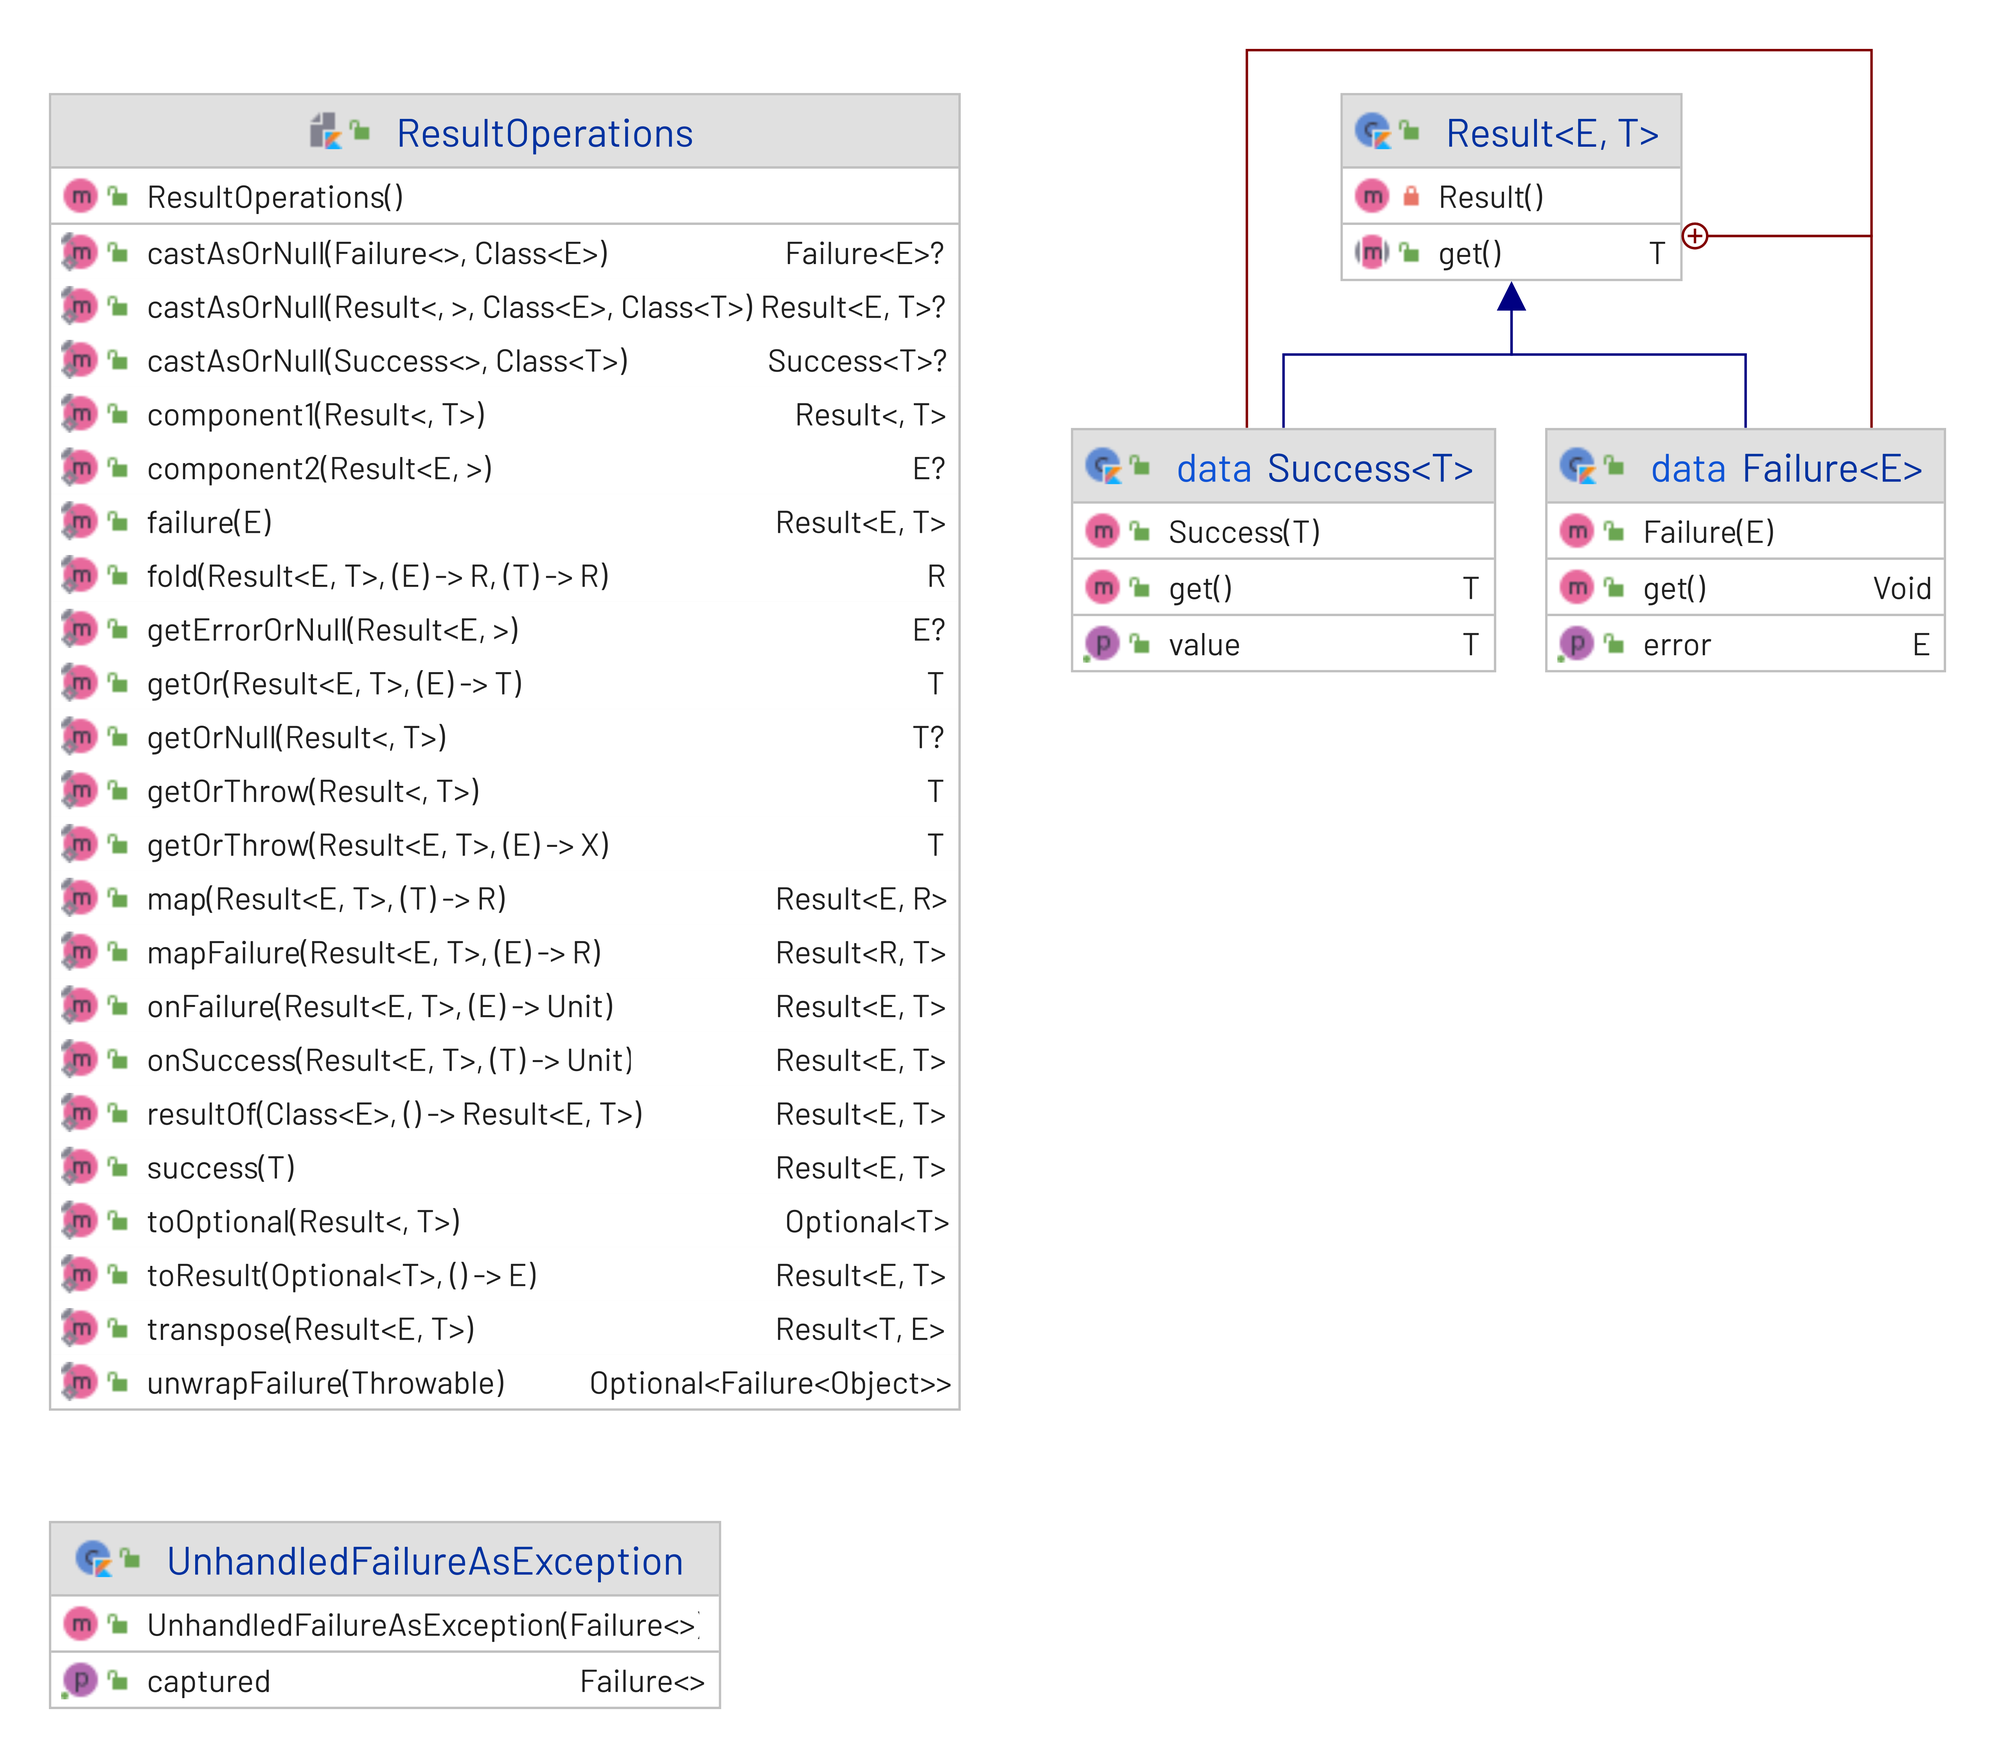
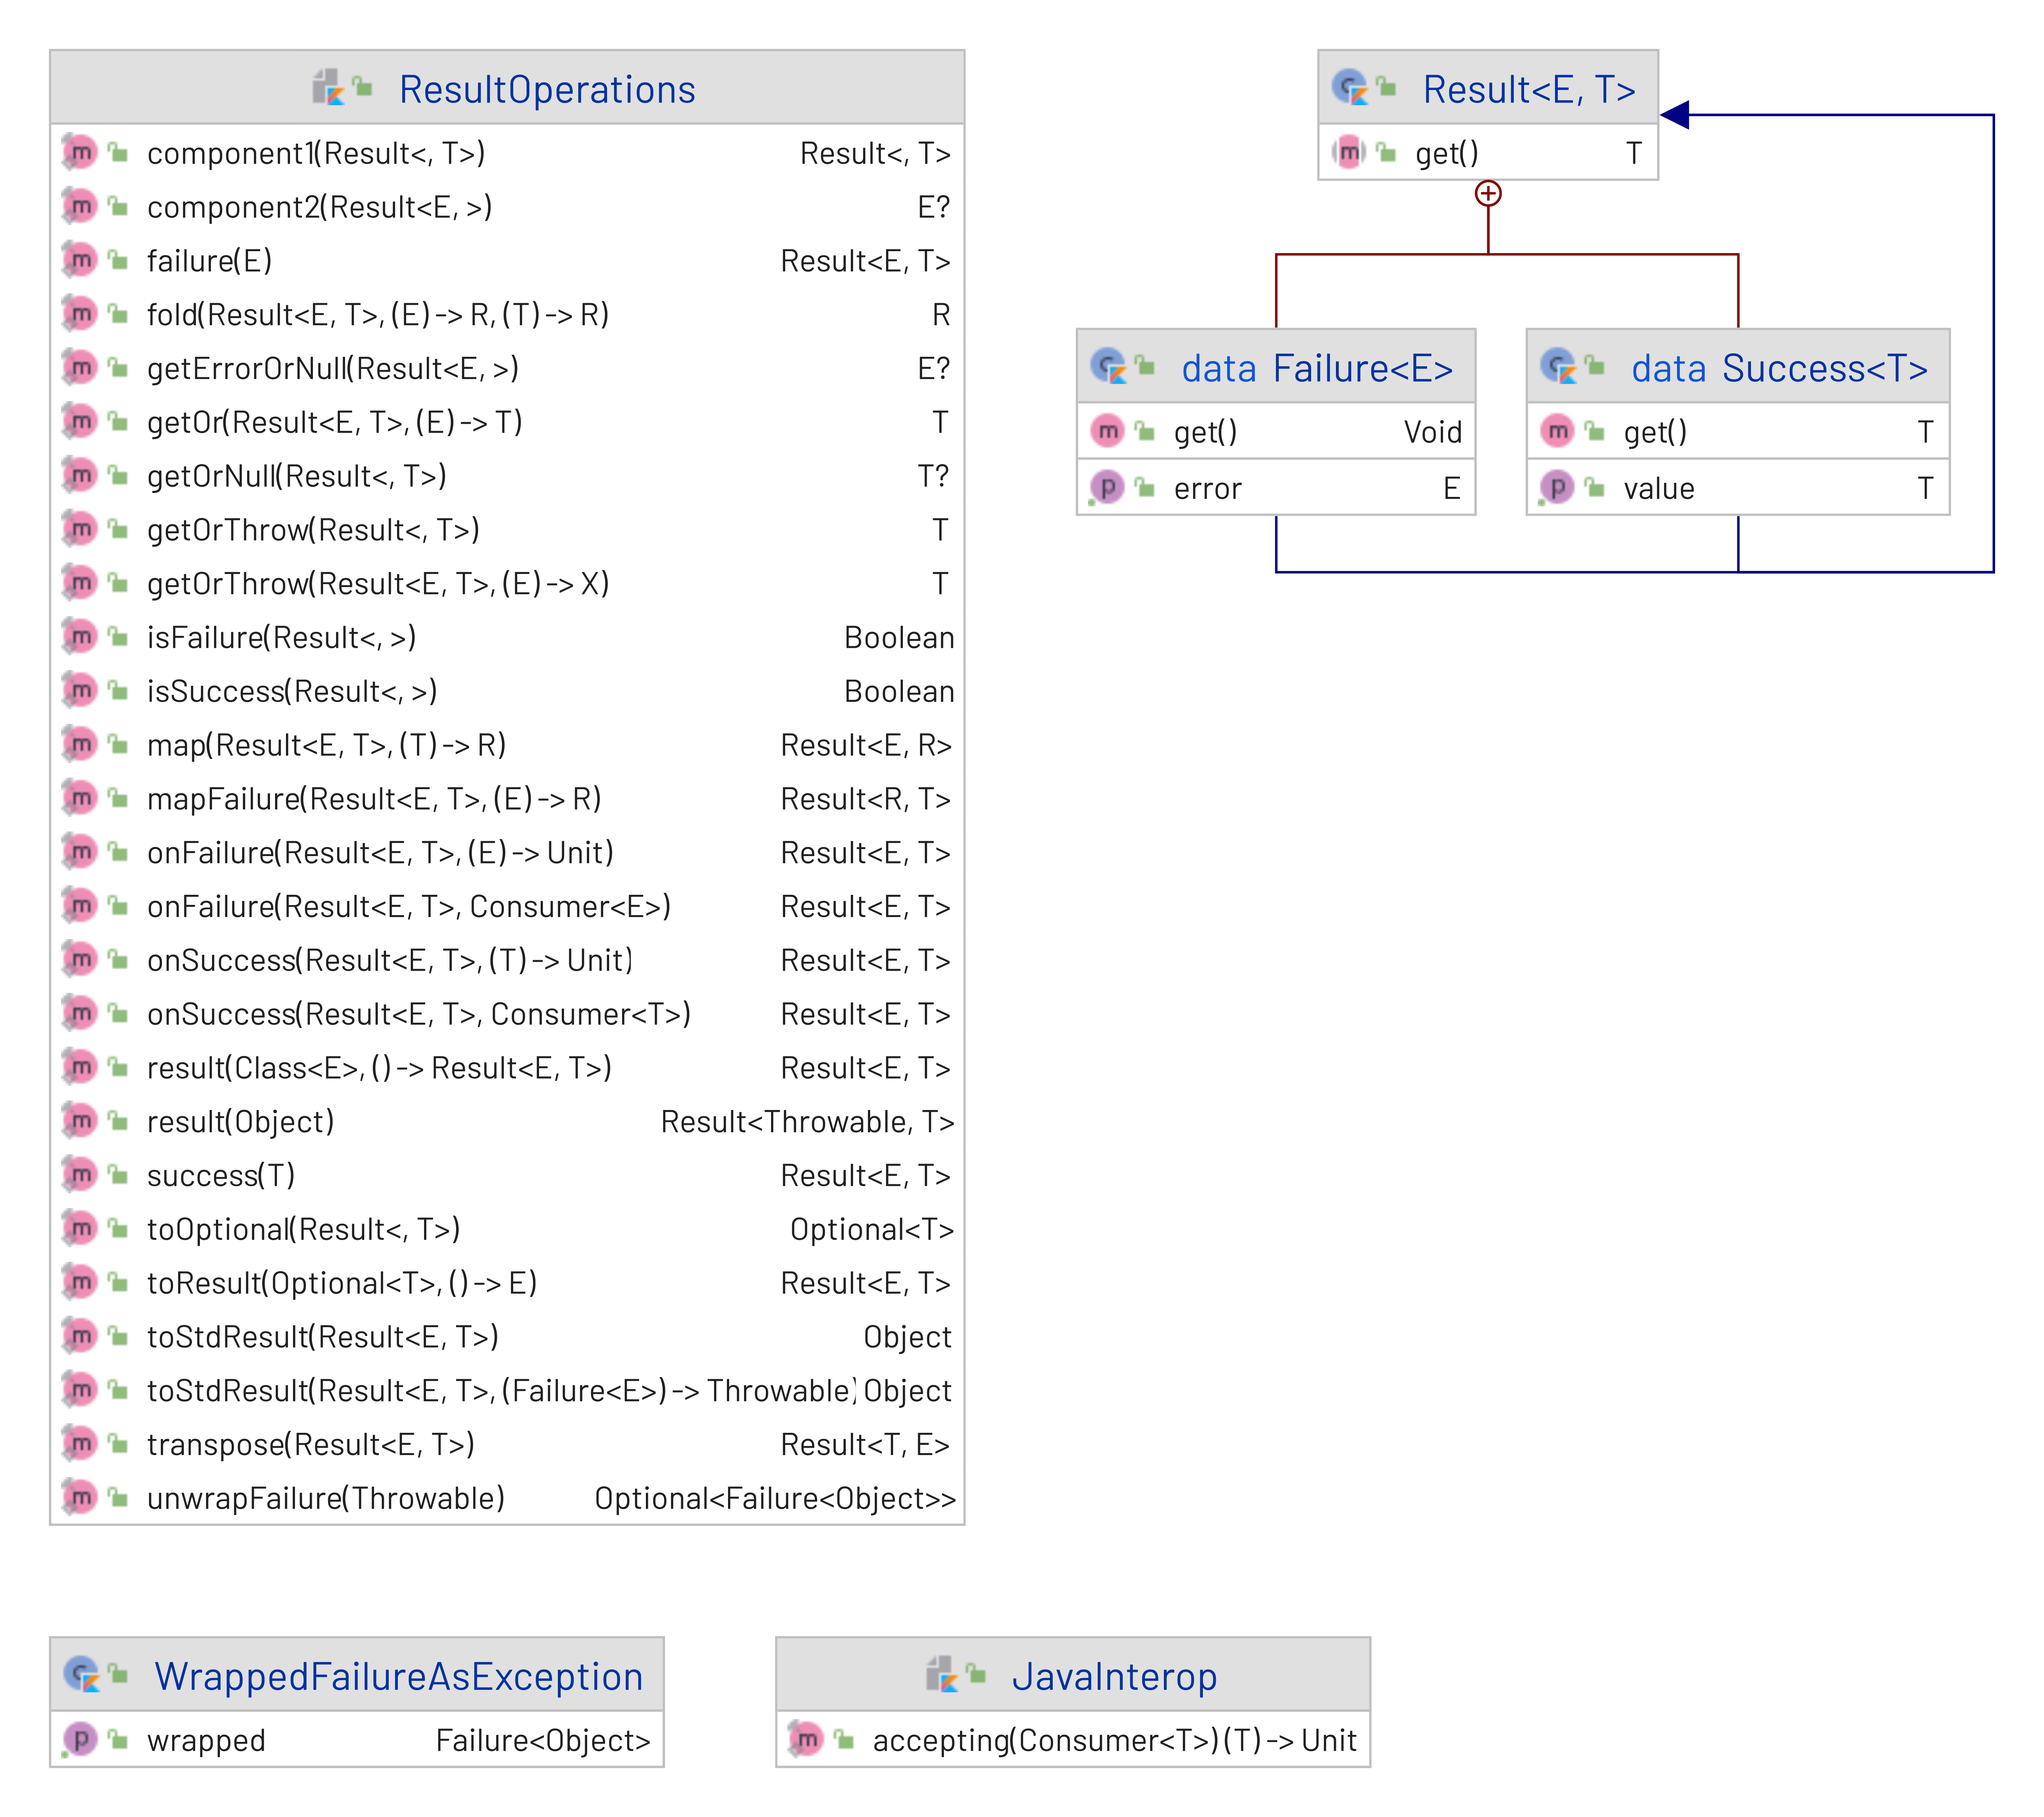
Updated docs removed some unnecessary Result operations.

diff --git a/lib/src/main/kotlin/io/github/andriesfc/kotlin/result/result.kt b/lib/src/main/kotlin/io/github/andriesfc/kotlin/result/result.kt
@@ -1,7 +1,7 @@
 @file:JvmName("ResultOperations")
 package io.github.andriesfc.kotlin.result
 
-import io.github.andriesfc.kotlin.interop.accepting
+import io.github.andriesfc.kotlin.result.interop.accepting
 import io.github.andriesfc.kotlin.result.Result.Failure
 import io.github.andriesfc.kotlin.result.Result.Success
 import java.util.*
@@ -62,8 +62,7 @@ val Result<*, *>.isSuccess: Boolean get() = this is Success
 val Result<*, *>.isFailure: Boolean get() = this is Failure
 
 /**
- * Returns a getter for the of the successful result value in the first position, or
- * an getter which will thrown in exception in the case of error.
+ * Returns result in the first variable position - use [Result.get] to to retrieve the success value.
  *
  * > **NOTE**: If the result is a [Failure], calling [get] may result in an exception being thrown.
  */
@@ -296,113 +295,20 @@ fun <E, T> Result<E, T>.transpose(): Result<T, E> {
 }
 
 /**
- * Casts thia result to specific type result of either the [E], or [T] value type.
+ * The purpose of this class is to bridge the functional model of the [Result] operations with the traditional
+ * _try-catch_ world of Object Oriented contract which specifies that failures should be raised and the current
+ * operation should be aborted.
  *
- * @param E The error type parameter
- * @param T The result type parameter
- * @return This result if either error value is of type [E], or the value of type [T], or `null`.
- */
-@Suppress("UNCHECKED_CAST")
-inline fun <reified E,reified T> Result<*, *>.castAsOrNull(): Result<E, T>? {
-    return when (this) {
-        is Failure -> (error as? E)?.let { this as Failure<E> }
-        is Success -> (value as? T)?.let { this as Success<T> }
-    }
-}
-
-/**
- * Casts this result to specific type result of either the error ([E]), or success value ([T]) type.
- *
- * @param E The error type parameter
- * @param errorClass The class of expected error value type
- * @param T The result type parameter
- * @param valueClass The class of the expected value type.
- * @return This result if either error value is of type [E], or the value of type [T], or `null`.
- */
-@Suppress("UNCHECKED_CAST")
-fun <E, T> Result<*, *>.castAsOrNull(errorClass: Class<out E>, valueClass: Class<out T>): Result<E, T>? {
-    return when  {
-        this is Failure && errorClass.isInstance(error) -> this as Failure<E>
-        this is Success && valueClass.isInstance(value) -> this as Success<T>
-        else -> null
-    }
-}
-
-/**
- * Attempts to cast a failure of to specific error value type, or failing returns a null.
- *
- * @param E The expected error value class.
- *
- * @return The failure with the expected value type of [E], or null.
- */
-@Suppress("UNCHECKED_CAST")
-inline fun <reified E> Failure<*>.castAsOrNull(): Failure<E>? {
-    return when (error) {
-        is E -> this as Failure<E>
-        else -> null
-    }
-}
-
-
-/**
- * Attempts to cast a failure of to specific error value type, or failing returns a null.
- *
- * @param E The expected error value class.
- * @param errorClass The class of the expected error value.
- *
- * @return The failure with the expected value type of [E], or null.
- */
-@Suppress("UNCHECKED_CAST")
-fun <E> Failure<*>.castAsOrNull(errorClass: Class<out E>): Failure<E>? {
-    return when {
-        errorClass.isInstance(error) -> this as Failure<E>
-        else -> null
-    }
-}
-
-/**
- * Attempts to cast this success to value of a specific type of [T]. If the cast cannot
- * succeed, a `null` value will be returned.
- *
- * @param T The expected [Success.value] type parameter.
- *
- * @return A Success which value is of type [T], or `null` of the cast will cannot succeed.
- */
-@Suppress("UNCHECKED_CAST")
-inline fun <reified T> Success<*>.castAsOrNull(): Success<T>? {
-    return when (value) {
-        is T -> this as Success<T>
-        else -> null
-    }
-}
-
-/**
- * Attempts to cast this success to value of a specific type of [T]. If the cast cannot
- * succeed, a `null` value will be returned.
- *
- * @param T The expected [Success.value] type parameter.
- * @param valueClass The expected value class of [T]
- * @return A Success which value is of type [T], or `null` of the cast will cannot succeed.
- */
-@Suppress("UNCHECKED_CAST")
-fun <T> Success<*>.castAsOrNull(valueClass: Class<out T>): Success<T>? {
-    return when {
-        valueClass.isInstance(value) -> this as Success<T>
-        else -> null
-    }
-}
-
-/**
- * Indicates that an error occurred, but the [Failure.error] itself could not be thrown as it
- * is not of a `Throwable` type.
- *
- * @property wrapped Reports the actual unhandled failure.
- *
- * @aee Result.get
- * @see Failure
+ * @constructor Creates a new wrapped failure exception which can be raised using the `throw` operation.
+ * @property wrapped Reports the actual failure.
+ * @param wrapped The failure to wrap.
+ * @see Result.get
  * @see result
  */
-class WrappedFailureAsException(val wrapped: Failure<*>) : RuntimeException("Unhandled error raised: ${wrapped.error}")
+@Suppress("UNCHECKED_CAST")
+class WrappedFailureAsException(wrapped: Failure<*>) : RuntimeException("${wrapped.error}") {
+    val wrapped: Failure<Any> = wrapped as Failure<Any>
+}
 
 /**
  * Attempts to unwrap any failure raised via a [WrappedFailureAsException]
@@ -411,8 +317,7 @@ class WrappedFailureAsException(val wrapped: Failure<*>) : RuntimeException("Unh
  */
 fun Throwable.unwrapFailure(): Optional<Failure<Any>> {
     return when (this) {
-        is WrappedFailureAsException -> wrapped.castAsOrNull<Any>()?.let { Optional.ofNullable(it) }
-            ?: Optional.empty()
+        is WrappedFailureAsException -> Optional.of(wrapped)
         else -> Optional.empty()
     }
 }

diff --git a/lib/src/test/kotlin/io/github/andriesfc/kotlin/result/WrappedFailureAsExceptionTest.kt b/lib/src/test/kotlin/io/github/andriesfc/kotlin/result/WrappedFailureAsExceptionTest.kt
@@ -1,0 +1,23 @@
+package io.github.andriesfc.kotlin.result
+
+import io.github.andriesfc.kotlin.result.Result.Failure
+import org.junit.jupiter.api.Assertions.*
+import org.junit.jupiter.api.Test
+import org.junit.jupiter.api.assertThrows
+
+internal class WrappedFailureAsExceptionTest {
+
+    @Test
+    fun wrapping_non_throwable_failure() {
+        assertDoesNotThrow { WrappedFailureAsException(Failure(1))  }
+    }
+
+    @Test
+    fun unwrapping_any_exception() {
+        val expectedError = 1
+        val e = assertThrows<Throwable> { Failure(expectedError).get()  }
+        assertTrue(e.unwrapFailure().isPresent)
+        assertEquals(expectedError, e.unwrapFailure().get().error)
+    }
+
+}

diff --git a/lib/src/main/kotlin/io/github/andriesfc/kotlin/result/interop/java_interop.kt b/lib/src/main/kotlin/io/github/andriesfc/kotlin/result/interop/java_interop.kt
@@ -1,0 +1,16 @@
+@file:JvmName("JavaInterop")
+package io.github.andriesfc.kotlin.result.interop
+
+import io.github.andriesfc.kotlin.result.onFailure
+import io.github.andriesfc.kotlin.result.onSuccess
+import java.util.function.Consumer
+
+
+/**
+ * This converts any Java [Consumer] instance to a kotlin lambda in the form of
+ * `(T)->Unit`.
+ *
+ * @see onSuccess
+ * @see onFailure
+ */
+fun <T> Consumer<T>.accepting(): ((T) -> Unit) = { accept(it) }

diff --git a/lib/module.md b/lib/module.md
@@ -6,6 +6,6 @@ Idiomatic safe handling of exceptions in Kotlin in functional manner.
 
 Result handling Library main package.
 
-# Package io.github.andriesfc.kotlin.interop
+# Package io.github.andriesfc.kotlin.result.interop
 
 General Kotlin classes which handles special interop with the JVM where required.
